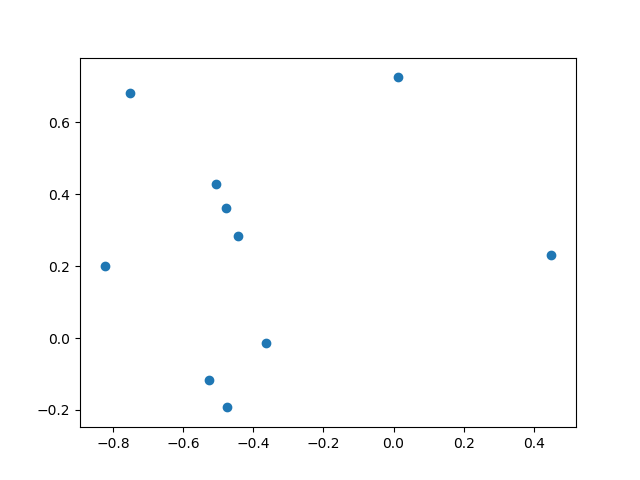
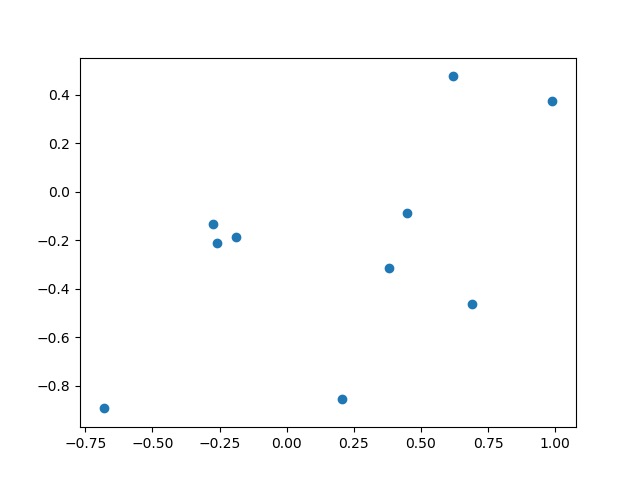
5.1

diff --git a/src/5.1.py b/src/5.1.py
@@ -9,24 +9,26 @@ import sys
 import operator
         
 def main():
-    movie_info = np.genfromtxt('../data/movies.txt', dtype='str', delimiter="\t", usecols=(0, 1, 3, 7, 16))
+    #movie_info = np.genfromtxt('../data/movies.txt', dtype="str", delimiter="\t", usecols=(0, 1, 3, 7, 16))
+    movie_info = np.loadtxt('../data/movies.txt', dtype="str", delimiter="\t", usecols=(0, 1, 3, 7, 16))
     data = np.loadtxt('../data/data.txt').astype(int)
     Y_train = np.loadtxt('../data/train.txt').astype(int)
     Y_test = np.loadtxt('../data/test.txt').astype(int)
-
+    print(movie_info)
     
     M = max(max(Y_train[:,0]), max(Y_test[:,0])).astype(int) # users
     N = max(max(Y_train[:,1]), max(Y_test[:,1])).astype(int) # movies
     print("Factorizing with ", M, " users, ", N, " movies.")
     
-    reg = 0.2
+    reg = 0.0
     eta = 0.03 # learning rate
+    k = 20
     E_in = []
     E_out = []
 
     # Use to compute Ein and Eout
 
-    U,V, err = train_model(M, N, 20, eta, reg, Y_train)
+    U,V, err = train_model(M, N, k, eta, reg, Y_train)
     e_out = get_err(U, V, Y_test)
     print("e_in", err)
     print("e_out", e_out)
@@ -114,28 +116,52 @@ def main():
     action = (movie_info[:,2].astype(int))[:90000]
     action_movies = dict((k, v) for k, v in zip(ids, action) if v == 1)
     action_ratings_dict = dict((k, ratings[k]) for k in action_movies.keys())
-    x_best = []
-    y_best = []
+    x_action = []
+    y_action = []
     action_ratings = []
-    action_ratings = action_ratings.keys()
+    action_ratings = action_ratings_dict.keys()
+
+    comedy = movie_info[:,3].astype(int)
+    comedy_movies = dict((k, v) for k, v in zip(ids, comedy) if v == 1)
+    comedy_ratings_dict = dict((k, ratings[k]) for k in comedy_movies.keys())
+    x_comedy = []
+    y_comedy = []
+    comedy_ratings = []
+    comedy_ratings = comedy_ratings_dict.keys()
+
+    romance = movie_info[:,4].astype(int)
+    romance_movies = dict((k, v) for k, v in zip(ids, romance) if v == 1)
+    romance_ratings_dict = dict((k, ratings[k]) for k in romance_movies.keys())
+    x_romance = []
+    y_romance = []
+    romance_ratings = []
+    romance_ratings = romance_ratings_dict.keys()
+
     count = 0
     for i in v_proj:
         count += 1
         if count in action_ratings:
-            x_best.append(i[0])
-            y_best.append(i[1])
+            x_action.append(i[0])
+            y_action.append(i[1])
 
-    plt.scatter(x_best, y_best)
+        if count in comedy_ratings:
+            x_comedy.append(i[0])
+            y_comedy.append(i[1])
+
+        if count in romance_ratings:
+            x_romance.append(i[0])
+            y_romance.append(i[1])
+
+    plt.scatter(x_action[2:12], y_action[2:12])
+    plt.scatter(x_comedy[2:12], y_comedy[2:12], color = 'orange')
+    plt.scatter(x_romance[2:12], y_romance[2:12], color = 'green')
     plt.savefig('action.png')
     plt.clf()
     
 
-    # # Comedy:
+    # Comedy:
 
-    # comedy = movie_info[:,3].astype(int)
-    # comedy_movies = dict((k, v) for k, v in zip(ids, comedy) if v == 1)
-    # comedy_ratings_dict = dict((k, ratings[k]) for k in comedy_movies.keys())
-    # comedy_ratings = []
+    
     # [comedy_ratings.extend(v) for v in comedy_ratings_dict.values()]
     # plt.hist(comedy_ratings, bins=5)
     # plt.xlabel('ratings')
@@ -146,17 +172,17 @@ def main():
 
     # # Romance:
 
-    # romance = movie_info[:,4].astype(int)
-    # romance_movies = dict((k, v) for k, v in zip(ids, romance) if v == 1)
-    # romance_ratings_dict = dict((k, ratings[k]) for k in romance_movies.keys())
-    # romance_ratings = []
-    # [romance_ratings.extend(v) for v in romance_ratings_dict.values()]
-    # plt.hist(romance_ratings, bins=5)
-    # plt.xlabel('ratings')
-    # plt.ylabel('frequency')
-    # plt.title('Histogram of all ratings of romance movies')
-    # plt.savefig('romance_51diii.png')
-    # plt.clf()
+    romance = movie_info[:,4].astype(int)
+    romance_movies = dict((k, v) for k, v in zip(ids, romance) if v == 1)
+    romance_ratings_dict = dict((k, ratings[k]) for k in romance_movies.keys())
+    romance_ratings = []
+    [romance_ratings.extend(v) for v in romance_ratings_dict.values()]
+    plt.hist(romance_ratings, bins=5)
+    plt.xlabel('ratings')
+    plt.ylabel('frequency')
+    plt.title('Histogram of all ratings of romance movies')
+    plt.savefig('romance_51diii.png')
+    plt.clf()
 
 
 

diff --git a/src/visualizations.py b/src/visualizations.py
@@ -11,7 +11,7 @@ movie_info = np.genfromtxt('../data/movies.txt', dtype='str', delimiter="\t", us
 data = np.loadtxt('../data/data.txt').astype(int)
 train = np.loadtxt('../data/train.txt').astype(int)
 test = np.loadtxt('../data/test.txt').astype(int)
-
+print movie_info
 ratings = {}
 for user, movie_id, rating in data:
     if movie_id in ratings:
@@ -27,7 +27,7 @@ plt.hist(all_ratings, bins=5)
 plt.xlabel('ratings')
 plt.ylabel('frequency')
 plt.title('Histogram of all ratings in the MovieLens Dataset')
-plt.savefig('all_4a.png')
+plt.savefig('Basic-all_4a.png')
 plt.clf()
 
 
@@ -40,7 +40,7 @@ plt.hist(top_ratings, bins=5)
 plt.xlabel('ratings')
 plt.ylabel('frequency')
 plt.title('Histogram of all ratings of the ten most popular movies')
-plt.savefig('popular_4b.png')
+plt.savefig('Basic-popular_4b.png')
 plt.clf()
 
 
@@ -53,7 +53,7 @@ plt.hist(best_ratings, bins=5)
 plt.xlabel('ratings')
 plt.ylabel('frequency')
 plt.title('Histogram of all ratings of the ten best movies')
-plt.savefig('best_4c.png')
+plt.savefig('Basic-best_4c.png')
 plt.clf()
 
 
@@ -73,7 +73,7 @@ plt.hist(action_ratings, bins=5)
 plt.xlabel('ratings')
 plt.ylabel('frequency')
 plt.title('Histogram of all ratings of action movies')
-plt.savefig('action_4di.png')
+plt.savefig('Basic-action_4di.png')
 plt.clf()
 
 # Comedy:
@@ -87,7 +87,7 @@ plt.hist(comedy_ratings, bins=5)
 plt.xlabel('ratings')
 plt.ylabel('frequency')
 plt.title('Histogram of all ratings of comedies')
-plt.savefig('comedy_4dii.png')
+plt.savefig('Basic-comedy_4dii.png')
 plt.clf()
 
 # Romance:
@@ -101,5 +101,5 @@ plt.hist(romance_ratings, bins=5)
 plt.xlabel('ratings')
 plt.ylabel('frequency')
 plt.title('Histogram of all ratings of romance movies')
-plt.savefig('romance_4diii.png')
+plt.savefig('Basic-romance_4diii.png')
 plt.clf()
